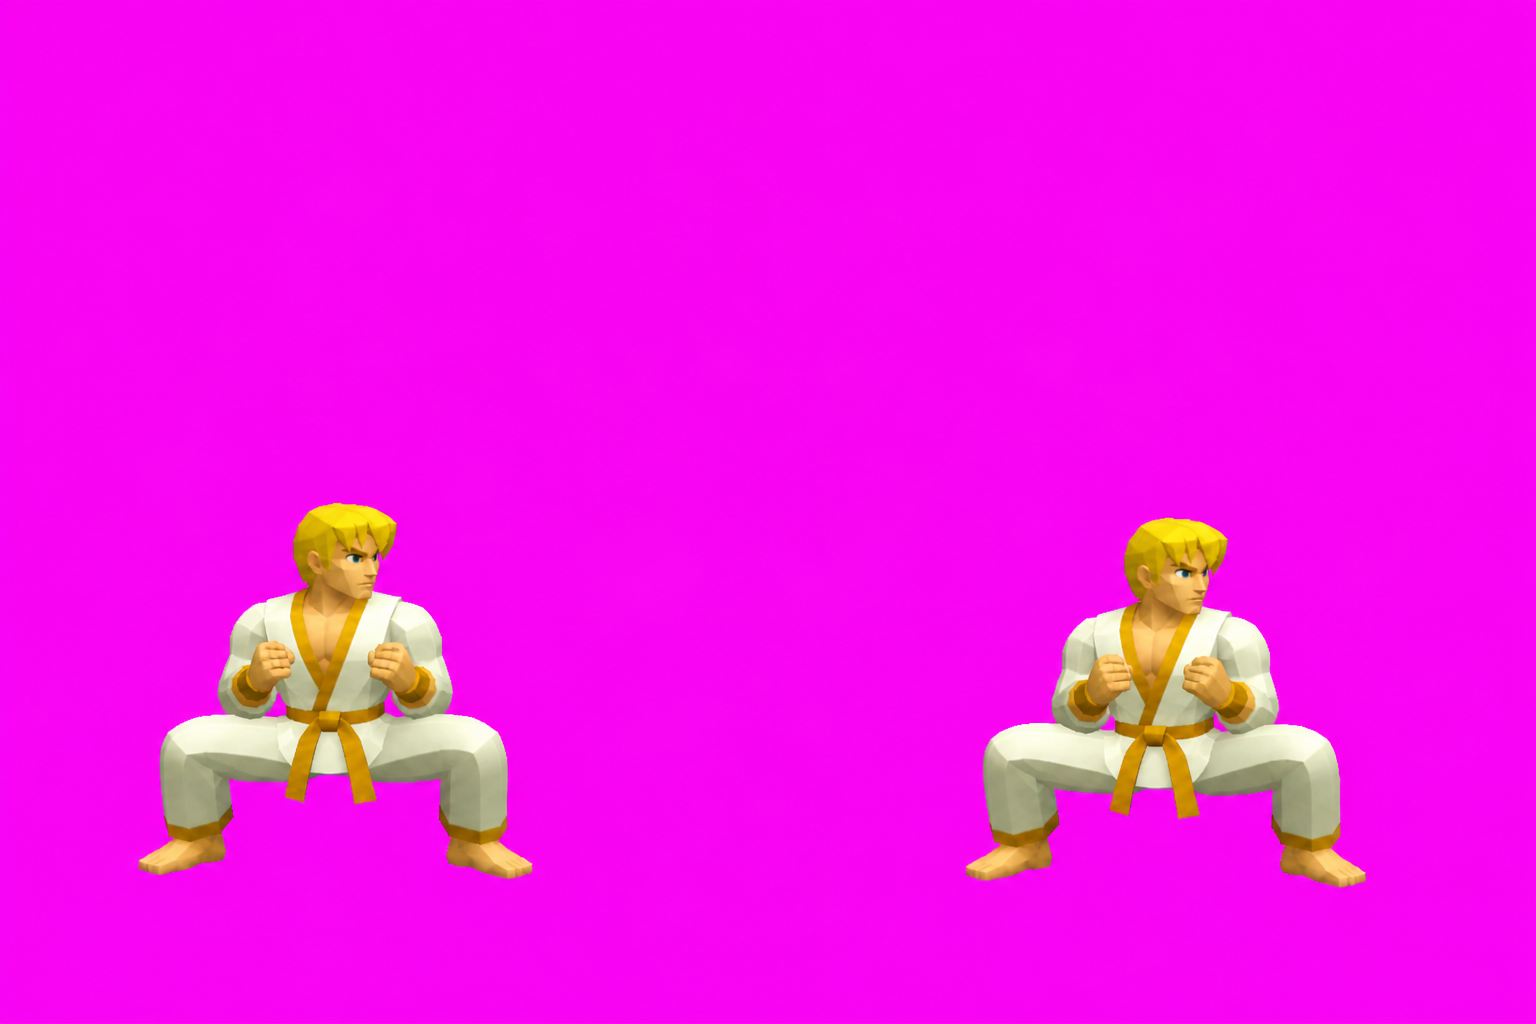
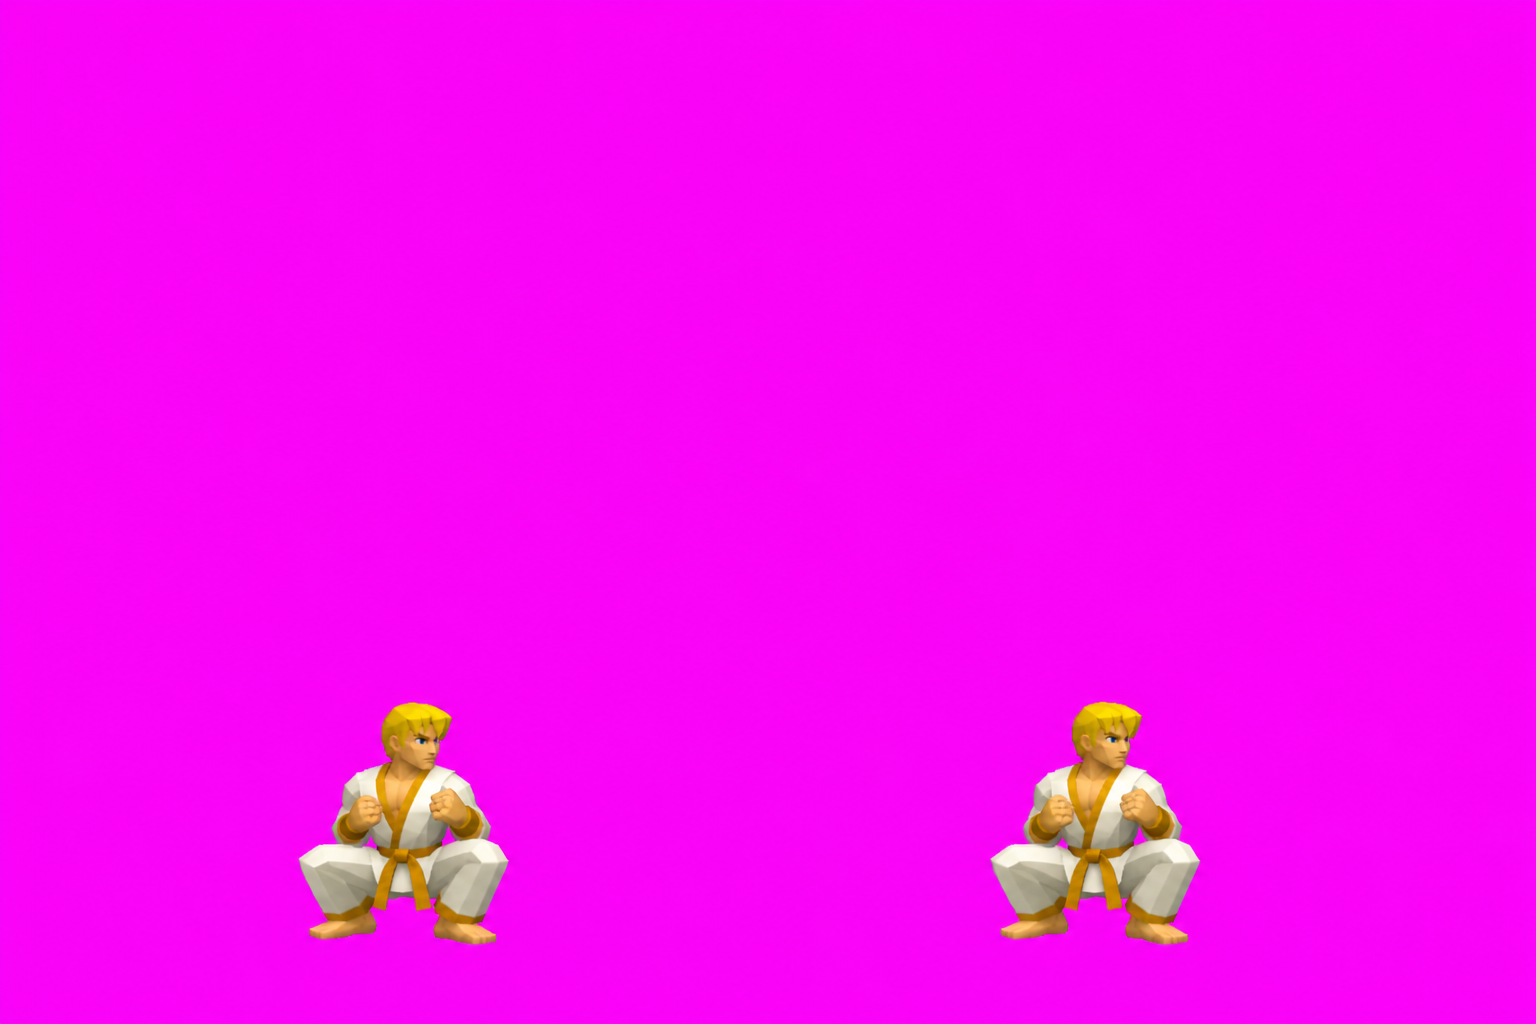
Process Simon pose-bar frames and regenerate weak sheets.
Transparent ~512px frames plus a labeled contact sheet. Crouch was
regenerated into a half-height squat; punch peak stays a locked
horizontal fierce. Processor keeps a consistent scale and air under
the jump peak.

Changed region(s): [[0.0938, 0.4688, 0.3438, 0.9375], [0.625, 0.5, 0.9062, 0.9375]]

diff --git a/dojo-art-raw/fighters/simon/process_simon_sheets.py b/dojo-art-raw/fighters/simon/process_simon_sheets.py
@@ -1,5 +1,11 @@
 #!/usr/bin/env python3
-"""Split Simon magenta chroma sheets into transparent ~512px frames + contact sheet."""
+"""Split Simon magenta chroma sheets into transparent ~512px frames + contact sheet.
+
+Adapts the locked processor: detect magenta gutters instead of a naive equal
+split (avoids neighbor-limb crumbs), keep one connected sprite per panel,
+use a consistent scale so crouch stays ~half idle height, and preserve air
+under airborne jump frames.
+"""
 from pathlib import Path
 from PIL import Image, ImageDraw, ImageFont
 import numpy as np
@@ -45,6 +51,67 @@ def remove_magenta_bg(im, tol=55.0):
     return Image.fromarray(out, "RGBA")
 
 
+def keep_main_sprite(im, min_alpha=24, crumb_frac=0.03, near=28):
+    """Drop tiny far-away crumbs; keep fists/feet split by magenta fringing."""
+    arr = np.array(im)
+    vis = arr[:, :, 3] >= min_alpha
+    if not vis.any():
+        return im
+    h, w = vis.shape
+    labels = np.zeros((h, w), dtype=np.int32)
+    current = 0
+    sizes = {}
+    boxes = {}
+    ys, xs = np.where(vis)
+    for y, x in zip(ys.tolist(), xs.tolist()):
+        if labels[y, x]:
+            continue
+        current += 1
+        stack = [(y, x)]
+        count = 0
+        miny, minx, maxy, maxx = y, x, y, x
+        while stack:
+            cy, cx = stack.pop()
+            if cy < 0 or cy >= h or cx < 0 or cx >= w:
+                continue
+            if not vis[cy, cx] or labels[cy, cx]:
+                continue
+            labels[cy, cx] = current
+            count += 1
+            if cy < miny:
+                miny = cy
+            if cy > maxy:
+                maxy = cy
+            if cx < minx:
+                minx = cx
+            if cx > maxx:
+                maxx = cx
+            stack.extend(((cy + 1, cx), (cy - 1, cx), (cy, cx + 1), (cy, cx - 1)))
+        sizes[current] = count
+        boxes[current] = (minx, miny, maxx, maxy)
+    if not sizes:
+        return im
+    main = max(sizes, key=sizes.get)
+    mx0, my0, mx1, my1 = boxes[main]
+    keep = {main}
+    for lab, sz in sizes.items():
+        if lab == main:
+            continue
+        x0, y0, x1, y1 = boxes[lab]
+        close = (x0 <= mx1 + near and x1 >= mx0 - near and y0 <= my1 + near and y1 >= my0 - near)
+        if close and sz >= sizes[main] * crumb_frac:
+            keep.add(lab)
+        elif sz >= sizes[main] * 0.15:
+            keep.add(lab)
+    drop = ~np.isin(labels, list(keep))
+    # never drop unlabeled background (already alpha 0)
+    drop &= labels != 0
+    out = arr.copy()
+    out[drop, 3] = 0
+    out[out[:, :, 3] == 0, :3] = 0
+    return Image.fromarray(out, "RGBA")
+
+
 def trim_alpha(im, pad=2):
     bb = im.split()[-1].getbbox()
     if not bb:
@@ -53,17 +120,8 @@ def trim_alpha(im, pad=2):
     return im.crop((max(0, l - pad), max(0, t - pad), min(im.width, r + pad), min(im.height, b + pad)))
 
 
-def bottom_align(im, target_h=TARGET_H, margin=BOTTOM_MARGIN):
-    im = trim_alpha(im)
-    content_h = target_h - margin
-    nw = max(1, int(round(im.width * (content_h / im.height))))
-    resized = im.resize((nw, content_h), Image.Resampling.LANCZOS)
-    canvas = Image.new("RGBA", (nw + 10, target_h), (0, 0, 0, 0))
-    canvas.paste(resized, (5, 0), resized)
-    return canvas
-
-
-def split_panels(im, n, overlap=0.04):
+def split_panels(im, n, overlap=0.0):
+    """Equal columns. overlap=0 avoids pulling a neighbor toe into the next cell."""
     w = im.width
     pw = w / n
     ov = pw * overlap
@@ -73,6 +131,51 @@ def split_panels(im, n, overlap=0.04):
         right = min(w, int((i + 1) * pw + (ov if i < n - 1 else 0)))
         panels.append(im.crop((left, 0, right, im.height)))
     return panels
+
+
+def extract_sprite(panel):
+    keyed = keep_main_sprite(remove_magenta_bg(panel))
+    bb = keyed.split()[-1].getbbox()
+    if not bb:
+        return None
+    bw, bh = bb[2] - bb[0], bb[3] - bb[1]
+    if bw < 30 or bh < 60:
+        return None
+    return {
+        "im": keyed.crop(bb),
+        "bbox": bb,
+        "panel_h": panel.height,
+        "top": bb[1],
+        "bottom": bb[3],
+        "h": bh,
+        "w": bw,
+    }
+
+
+def place_sprite(sprite, scale, anim, index):
+    src = sprite["im"]
+    nw = max(1, int(round(src.width * scale)))
+    nh = max(1, int(round(src.height * scale)))
+    resized = src.resize((nw, nh), Image.Resampling.LANCZOS)
+    canvas_w = nw + 10
+    canvas = Image.new("RGBA", (canvas_w, TARGET_H), (0, 0, 0, 0))
+    if anim == "jump" and index > 0:
+        # Keep a clear transparent gap under airborne frames.
+        if index == 2:
+            dest_top = 12
+        elif index == 1:
+            dest_top = 36
+        else:
+            dest_top = 72
+        if dest_top + nh > TARGET_H - 36:
+            dest_top = max(8, TARGET_H - 36 - nh)
+        canvas.paste(resized, (5, dest_top), resized)
+    else:
+        dest_top = TARGET_H - BOTTOM_MARGIN - nh
+        if dest_top < 0:
+            dest_top = 0
+        canvas.paste(resized, (5, dest_top), resized)
+    return canvas
 
 
 def checker_bg(size, cell=16):
@@ -105,13 +208,14 @@ def build_contact(all_frames):
     max_cols = max(len(frs) for _, frs in all_frames)
     col_w = max((fr.width for _, frs in all_frames for fr in frs), default=200)
     width = label_w + pad + max_cols * (col_w + gap) + pad
-    height = pad + len(all_frames) * (row_h + gap) + pad
+    height = pad + 24 + len(all_frames) * (row_h + gap) + pad
     canvas = Image.new("RGBA", (width, height), (28, 28, 32, 255))
     draw = ImageDraw.Draw(canvas)
     font = load_font(28)
     title_font = load_font(22)
-    draw.text((pad, 4), "SIMON — pose-bar contact", font=title_font, fill=(230, 230, 230, 255))
-    y = pad + 18
+    draw.text((pad, 6), "SIMON — pose-bar contact", font=title_font, fill=(230, 230, 230, 255))
+    y = pad + 28
+    peaks = {("idle", 0), ("punch", 2), ("kick", 2), ("jump", 2), ("block", 0), ("crouch", 0), ("sweep", 2)}
     for anim, frames in all_frames:
         draw.text((12, y + TARGET_H // 2 - 14), anim.upper(), font=font, fill=(255, 220, 80, 255))
         x = label_w
@@ -122,7 +226,7 @@ def build_contact(all_frames):
             ox = x + max(0, (cell_w - fr.width) // 2)
             canvas.paste(fr, (ox, y), fr)
             tag = f"{i:02d}"
-            if (anim, i) in {("idle", 0), ("punch", 2), ("kick", 2), ("jump", 2), ("block", 0), ("crouch", 0), ("sweep", 2)}:
+            if (anim, i) in peaks:
                 tag += " PEAK"
             draw.text((x + 6, y + 4), tag, font=title_font, fill=(180, 255, 180, 255))
             x += col_w + gap
@@ -133,23 +237,29 @@ def build_contact(all_frames):
 
 def main():
     OUT.mkdir(parents=True, exist_ok=True)
-    all_frames = []
+    extracted = []
     for anim, n in ANIMS:
         src = RAW / f"raw_{FID}_{anim}_sheet.png"
         im = Image.open(src).convert("RGBA")
-        frames = []
+        sprites = []
         for p in split_panels(im, n):
-            keyed = remove_magenta_bg(p)
-            bb = keyed.split()[-1].getbbox()
-            if not bb:
-                continue
-            bw, bh = bb[2] - bb[0], bb[3] - bb[1]
-            if bw < 30 or bh < 60:
-                continue
-            frames.append(bottom_align(keyed))
-        while len(frames) < n and frames:
-            frames.append(frames[-1].copy())
-        frames = frames[:n]
+            sp = extract_sprite(p)
+            if sp:
+                sprites.append(sp)
+        while len(sprites) < n and sprites:
+            sprites.append(sprites[-1])
+        sprites = sprites[:n]
+        extracted.append((anim, sprites))
+        print(anim, "raw", [(s["w"], s["h"], f"top={s['top']}") for s in sprites])
+
+    idle_h = max(s["h"] for s in extracted[0][1]) if extracted[0][1] else 400
+    tallest = max(s["h"] for _, sprites in extracted for s in sprites)
+    scale = (TARGET_H - BOTTOM_MARGIN) / tallest
+    print(f"scale {scale:.4f} from tallest={tallest} idle_h={idle_h}")
+
+    all_frames = []
+    for anim, sprites in extracted:
+        frames = [place_sprite(s, scale, anim, i) for i, s in enumerate(sprites)]
         for i, fr in enumerate(frames):
             dest = OUT / f"fighter_{FID}_{anim}_{i:02d}.png"
             fr.save(dest, "PNG", optimize=True)
@@ -157,19 +267,10 @@ def main():
         all_frames.append((anim, frames))
     build_contact(all_frames)
 
-    # Silhouette QA: bbox aspect after keying, before bottom-align scale
     print("\n--- silhouette QA (raw keyed bbox) ---")
-    for anim, n in ANIMS:
-        src = RAW / f"raw_{FID}_{anim}_sheet.png"
-        im = Image.open(src).convert("RGBA")
-        for i, p in enumerate(split_panels(im, n)):
-            keyed = remove_magenta_bg(p)
-            bb = keyed.split()[-1].getbbox()
-            if not bb:
-                print(f"  {anim}_{i:02d} EMPTY")
-                continue
-            bw, bh = bb[2] - bb[0], bb[3] - bb[1]
-            print(f"  {anim}_{i:02d} bbox={bw}x{bh} aspect={bw/bh:.2f}")
+    for anim, sprites in extracted:
+        for i, s in enumerate(sprites):
+            print(f"  {anim}_{i:02d} bbox={s['w']}x{s['h']} aspect={s['w']/s['h']:.2f} top={s['top']} bot_gap={s['panel_h']-s['bottom']}")
 
 
 if __name__ == "__main__":
